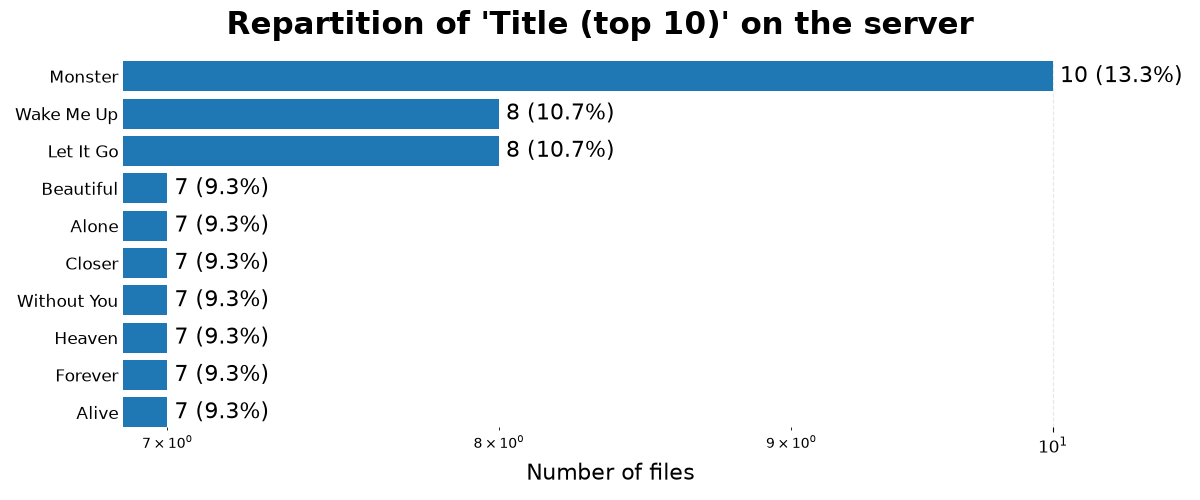
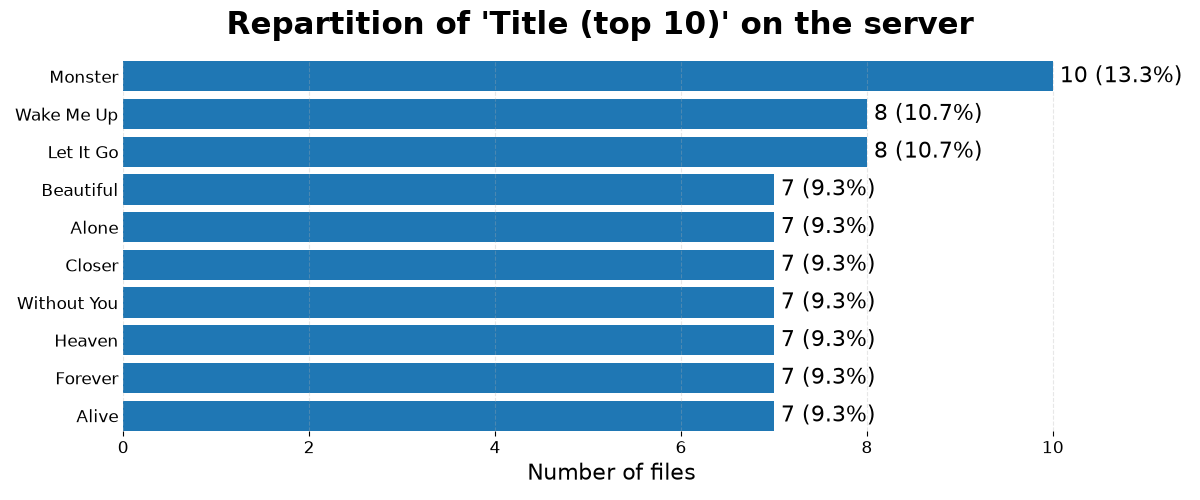
change xscale method. Now auto

diff --git a/utils/chart.py b/utils/chart.py
@@ -39,7 +39,6 @@ def barVertChart(
         name:str,
         datas:dict, 
         top_n:int=None,
-        x_log:bool=True, 
         show:bool=False,
         save:str|None=None,
         close:bool=True,
@@ -52,6 +51,8 @@ def barVertChart(
             
     if top_n is not None:
         keys, values = keys[:top_n], values[:top_n]
+        
+    value_min, value_max = min(values), max(values)
 
     # Hight adapt depending of the number of categories
     fig_height = max(5, len(keys) * 0.4)
@@ -83,7 +84,7 @@ def barVertChart(
         fontsize=LABEL_SIZE,
     )
 
-    if x_log:
+    if len(str(value_min)) != len(str(value_max)) and value_max >= 100:
         ax.set_xscale('log')
         
     ax.spines["top"].set_visible(False)
